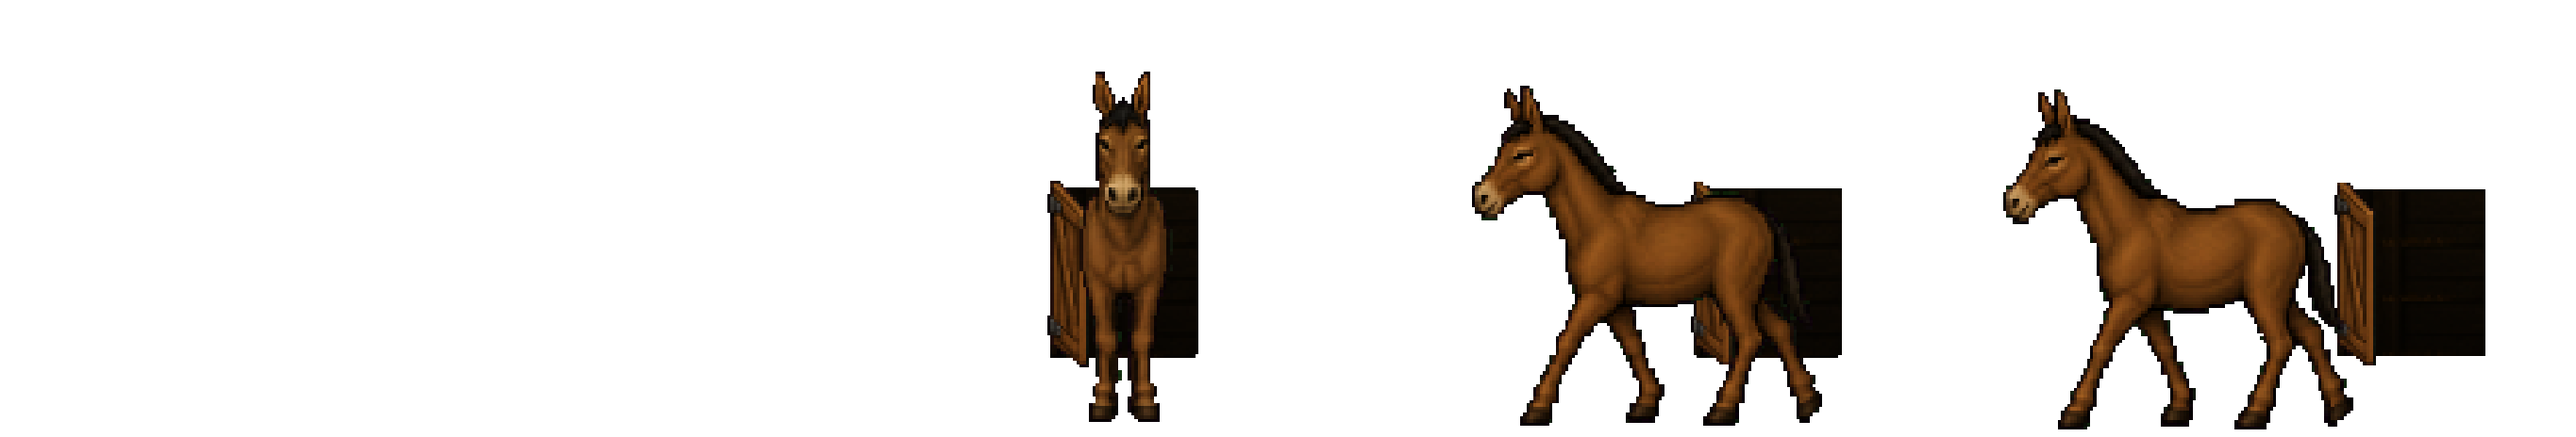
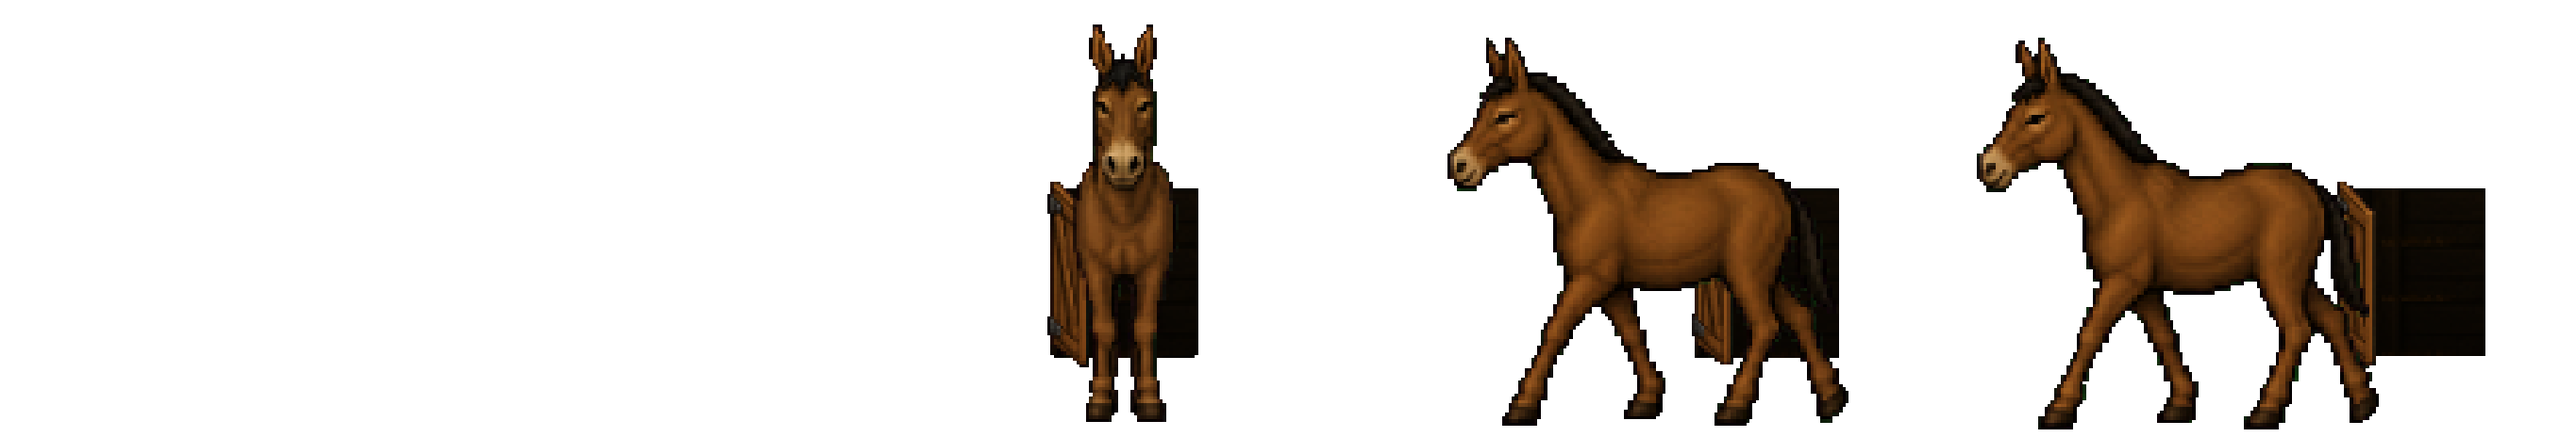
Errata 207: the five figures the checks caught, fixed
Tyler, 2026-11-08: "Fix all five" (errata 205's known failures).

- Grievance stepping out of her stall re-cut by tools/art/grievance-out.py,
  each pose sized at 1.21 of the room's man at its hooves (was drawn at her
  stall size: 1.067), snapped to the one level; her near-blacks despilled
  of the key so the larger cut stays under check-residual-key. knownWrong
  removed; new `atLeastAs` in tests/scale.test.ts holds her no smaller than
  she is over her door.
- bakehouse_boy, sheng, boundary_b and the fiddler graded into their rooms
  by each room's figureLight (1.62/1.54/1.18/1.60 -> 1.07/1.07/1.03/1.40);
  reference/figure-light-known.json is empty; tests/figure-light.test.mjs
  proves each passes with margin and is flagged again without its grade.
- Renders: renders/fixed-*-beside-thad.png.

No image operation; no line written or changed.

Claude-Session: https://claude.ai/code/session_01FXbCus2Hm36NL2YuHFGB8T

diff --git a/tests/scale.test.ts b/tests/scale.test.ts
@@ -83,6 +83,12 @@ type AnimalRuling = {
   height?: Range; withersRow?: number; withers?: Range; length?: Range;
   ruling: string;
   knownWrong?: { measured: Record<string, number>; why: string; fix: string };
+  /**
+   * Another entry for the same animal, further back: this one is never smaller against the man at
+   * its feet. Grievance stepping out of her stall was drawn at her stall size 68 px nearer, so she
+   * shrank as she came toward us (errata 205, fixed in errata 207), and 1.10 alone would let her.
+   */
+  atLeastAs?: string;
 };
 const { animals = [] } = read('content/scale-anchors.json') as { animals?: AnimalRuling[] };
 const cast = new Map(manifest.ambient.map((path) => {
@@ -166,6 +172,14 @@ for (const ruling of animals) {
       return;
     }
     assert.deepEqual(missed, [], missed.join('\n'));
+    if (ruling.atLeastAs) {
+      const back = animals.find((one) => one.figure === ruling.atLeastAs);
+      const backNpc = cast.get(ruling.atLeastAs);
+      assert.ok(back && backNpc?.sprite && rooms.get(backNpc.room), `${npc.id}: atLeastAs names ${ruling.atLeastAs}, an animal with a ruling`);
+      const there = animalProportion(backNpc, rooms.get(backNpc.room)!, back);
+      assert.ok(measured.height! >= there.height! - 0.005,
+        `${npc.id}'s ${ruling.top ?? 'top'} are ${measured.height!.toFixed(3)} of the man at its ${ruling.feet ?? 'feet'}, smaller than ${back.figure}'s ${there.height!.toFixed(3)}: it shrinks as it comes nearer`);
+    }
   });
 }
 

diff --git a/tools/art/grievance-out.py b/tools/art/grievance-out.py
@@ -11,8 +11,17 @@ composes the four frames of `grievance_out`, a figure that draws nothing until t
 
 Every frame is one canvas over the stall front, bottom-centred on the figure's (x, y). The open door and
 the dark doorway are drawn in each of 1-3 over the plate's closed door; her own figure shows its empty
-frame meanwhile (frame 5 of room-15-grievance.png, added here). Scaled as tools/art/room15-figures.py
-scales her: her front pose is her full height, 360 behind the door, 372 a step in front of it.
+frame meanwhile (frame 5 of room-15-grievance.png, added here).
+
+HER SIZE IS THE MAN AT HER HOOVES (errata 207; errata 205 A's check caught it). She was first scaled
+as she is in the stall (her front pose 372 tall), but stepping out her hooves are 68 px nearer than
+the stall floor, where the room's man is 349 against 303, so against a man she shrank as she came
+toward us: ear tips 1.067 of him, against 1.197 over the door. Now each pose is scaled so her ear
+tips stand EARS_OVER_MAN of the room's man where its hooves are pasted, read from the room's own
+depth curve: never less than she is in the stall. Each pose is pasted bottom-centred on its hooves,
+so the scale is about her hooves. The strides keep their 0.97 of the front pose (her head carried
+a little lower as she walks). After this, the sheet is snapped to the cast's one level:
+  python3 tools/art/one-level.py --only room-15-grievance-out
 
 Writes art/actors/room-15-grievance-out.png and appends the empty frame to room-15-grievance.png.
 """
@@ -26,7 +35,17 @@ S = os.path.join(ROOT, 'art/staging/room-15')
 PLATE = os.path.join(ROOT, 'art/backgrounds/room-15-livery.png')
 L, R, T, B = 620, 1300, 230, 690               # the canvas, in room pixels; anchor (960, 690)
 DOOR = (1050, 428, 1205, 607)                   # the half door's box on the plate (x0, y0, x1, y1)
-HEIGHT = 372
+EARS_OVER_MAN = 1.21                            # her ear tips over the man at her hooves (1.197 in her stall)
+STRIDE = 0.97                                   # a stride's height, of the front pose's
+HOOVES = {'front': (1128, 676), 'walk1': (1000, 680), 'walk2': (880, 684)}   # each pose's hooves, room x, y
+
+
+def man_at(y):
+    """The room's man at floor y, by the livery's depth curve carried on in a line (tests/scale.test.ts manAt)."""
+    room = json.load(open(os.path.join(ROOT, 'content/rooms/livery.json')))
+    c = room['walkBoxes'][0]['scaleMode']
+    assert c['kind'] == 'curve' and not c.get('samples'), 'the livery curve is a straight line'
+    return c['farHeight'] + (y - c['farY']) * (c['nearHeight'] - c['farHeight']) / (c['nearY'] - c['farY'])
 
 
 def pieces(path, count, speck=60):
@@ -61,6 +80,14 @@ def scale(p, s):
     for k in (0, 2):
         out[..., k] = np.where(cast, np.minimum(c[..., k], c[..., 1] + 24), out[..., k])
     out[..., 1] = np.where(out[..., 3] > 0, np.maximum(out[..., 1].astype(int), (c[..., 0] + c[..., 2]) // 2 - 28), out[..., 1]).clip(0, 255)
+    # HER BLACKS CARRY THE KEY (errata 207). The near-black of her mane, hooves and outline came out of
+    # the magenta key a little magenta, (8,0,8): red and blue equal, green below. Invisible, but it is
+    # tools/check-residual-key.mjs's signature, and drawn 1.13x larger for errata 207 it crossed the
+    # check's tolerance (391 pixels before, 475 after). A dark pixel bluer than its green takes its
+    # blue down to its green: a warm black, as a brown mule's darks are.
+    c = out[..., :3].astype(int)
+    keyed = (out[..., 3] > 0) & (c.max(-1) < 40) & (c[..., 2] > c[..., 1]) & (np.abs(c[..., 0] - c[..., 2]) <= 1)
+    out[..., 2] = np.where(keyed, out[..., 1], out[..., 2])
     out[out[..., 3] == 0] = 0
     return out
 
@@ -81,8 +108,8 @@ def paste(canvas, p, x, bottom):
 
 front = pieces(f'{S}/grievance-01/sheet.png', 5)[0]
 door, walk1, walk2 = pieces(f'{S}/grievance-out-01/sheet.png', 3)
-front = scale(front, HEIGHT / front.shape[0])
-walks = [scale(w, HEIGHT * 0.97 / w.shape[0]) for w in (walk1, walk2)]
+front = scale(front, round(EARS_OVER_MAN * man_at(HOOVES['front'][1])) / front.shape[0])
+walks = [scale(w, round(EARS_OVER_MAN * STRIDE * man_at(HOOVES[k][1])) / w.shape[0]) for w, k in ((walk1, 'walk1'), (walk2, 'walk2'))]
 gain = lum(front) / lum(walks[0])                  # the side-on strides to her own front's value
 for w in walks:
     w[..., :3] = np.clip(w[..., :3].astype(float) * gain, 0, 255).astype(np.uint8)
@@ -106,9 +133,9 @@ def base():
 
 
 frames = [np.zeros((B - T, R - L, 4), np.uint8)]
-f1 = base(); paste(f1, front, 1128, 676); frames.append(f1)
-f2 = base(); paste(f2, walks[0], 1000, 680); frames.append(f2)
-f3 = base(); paste(f3, walks[1], 880, 684); frames.append(f3)
+f1 = base(); paste(f1, front, *HOOVES['front']); frames.append(f1)
+f2 = base(); paste(f2, walks[0], *HOOVES['walk1']); frames.append(f2)
+f3 = base(); paste(f3, walks[1], *HOOVES['walk2']); frames.append(f3)
 W, H = R - L, B - T
 sheet = np.zeros((H + 4, (W + 2) * len(frames) + 2, 4), np.uint8)
 rects = []

diff --git a/docs/00-errata.md b/docs/00-errata.md
@@ -5599,3 +5599,56 @@ Tyler caught two things on Main Street's horses that no check held: they were dr
 
 - The bell ringer (1.11) and the sign painter at the coach stop (1.10) are just under the limit.
 - **Shown:** `renders/figure-light-bakehouse-boy-beside-thad.png` and `renders/figure-light-sheng-beside-thad.png`, each figure beside Thad at his feet, at game size.
+
+# 207 · THE FIVE FIGURES THE CHECKS CAUGHT, FIXED — TYLER, 2026-11-08 ("Fix all five")
+
+Errata 205's two checks found five figures wrong and recorded them without fixing them: Grievance stepping out of her stall, drawn too small, and four figures brighter than Thad in their rooms' night. Tyler: "Fix all five".
+
+*No image operation was spent, and no line was written or changed. Both known lists are now empty, so each check holds all five.*
+
+## 207 A · Grievance stepping out, at a mule's size
+
+- **She is re-cut by her own tool, `tools/art/grievance-out.py`, sized by the man at her hooves.**
+  - Before, each pose was drawn at her stall size (the front pose 372 tall). But stepping out, her hooves are at y 676, where the room's man is 349, against 303 at the stall floor. So she shrank as she came toward us.
+  - Now each pose is scaled so her ear tips stand 1.21 of the room's man where its hooves are pasted. The man is read from the livery's own depth curve. The strides keep their 0.97 of the front pose, because her head is carried a little lower as she walks.
+  - Each pose is pasted bottom-centred on its hooves, so the scale is about her hooves.
+  - She is about 1.13 times larger, in the same canvas, at the same anchor, with the same door and dark doorway. Her colours and her frames' motion are unchanged.
+  - Then she was snapped to the cast's one level (`tools/art/one-level.py --only room-15-grievance-out`, block 3.41).
+- **Her ear tips went from 1.067 to 1.211 of the man at her hooves.** The range is 1.10–1.35. Over the door she is 1.197, so she no longer shrinks as she comes forward.
+- **Her blacks carried the key, and the larger cut showed it.**
+  - The near-black of her mane, hooves and outline came out of the magenta key slightly magenta, (8,0,8). That is invisible, but it is the signature `tools/check-residual-key.mjs` looks for.
+  - At her old size it was 391 interior pixels, just under the check's tolerance of 400. Drawn larger, it was 475.
+  - The tool now takes such a dark pixel's blue down to its green, which leaves a warm black. After the snap, 29 remain.
+- **`content/scale-anchors.json`:** her `knownWrong` entry is gone. Her columns are updated to her new width (463–554).
+- **New in `tests/scale.test.ts`:** an entry can declare `atLeastAs`, which names the same animal further back. Grievance stepping out declares `atLeastAs: "grievance"`, so she can never again be smaller against a man than she is over her door. The range alone would let her fall to 1.10.
+  - Put back the old sheet, and the test fails on the range: "grievance_out's ear tips are 1.067 of the man at its hooves; the ruling needs 1.1-1.35".
+  - Cut her at 1.15 of the man, and the new assertion fails: "grievance_out's ear tips are 1.150 … smaller than grievance's 1.197: it shrinks as it comes nearer".
+
+## 207 B · Four figures graded into their night
+
+- **Each is graded by its room's `figureLight` (errata 198), in `reference/<room>/annotation.json`, which names only that figure.** The bakehouse, the laundry and the claim row had no grade, and the Nugget's now names the fiddler as well.
+  - Thad and every other figure are drawn exactly as before.
+  - Each room is recompiled.
+  - Each grade was judged by eye beside Thad. It is a light in the room's colour first, then a modest darkening, so that white cloth reads as cloth in that light and not as grey.
+
+| Figure | Room | Grade | Against Thad there, before → after | Limit |
+|---|---|---|---|---|
+| bakehouse_boy | Bakehouse | warm light [1.0, 0.9, 0.76], brightness 0.72 | 1.62 → 1.07 | 1.12 |
+| sheng | Laundry | warm light [1.0, 0.93, 0.84], brightness 0.74 | 1.54 → 1.07 | 1.12 |
+| boundary_b | Claim row | cool light [0.9, 0.92, 1.0], brightness 0.95, saturate 0.85 | 1.18 → 1.03 | 1.12 |
+| fiddler | Nugget | the room's warm light; his own brightness 0.95, saturate 1.0 | 1.60 → 1.40 | 1.56 |
+
+- **The boy's apron** now reads cream in the bakehouse's lamplight rather than white.
+- **Sheng's sheet** reads as linen in the laundry's light. The stove is not declared as a lamp: its fire is a small glow in the firebox, well to his left, and on the plate it does not light the sheet.
+- **boundary_b** gets the claim row's cool night, as the Main Street horses did. boundary_a beside him is 0.96.
+- **The fiddler** sits at 1.40, among the Nugget's other men (1.24–1.34).
+- **`reference/figure-light-known.json` is empty and says so.** The check now fails on any of the four if its grade is lost.
+  - **New in `tests/figure-light.test.mjs`:** each of the four must be named by its room's grade and pass with at least 3% to spare. With the grade taken away, each must be flagged again.
+
+- **Shown, each beside Thad at game size:**
+  - `renders/fixed-grievance-out-beside-thad.png`: Thad stands at her hooves' depth, y 676.
+  - `renders/fixed-bakehouse-boy-beside-thad.png`
+  - `renders/fixed-sheng-beside-thad.png`
+  - `renders/fixed-boundary-b-beside-thad.png`
+  - `renders/fixed-fiddler-beside-thad.png`
+- **The lesson is the two checks themselves.** With their known lists empty, errata 205's checks now hold all five: a regression in any one fails the suite.
